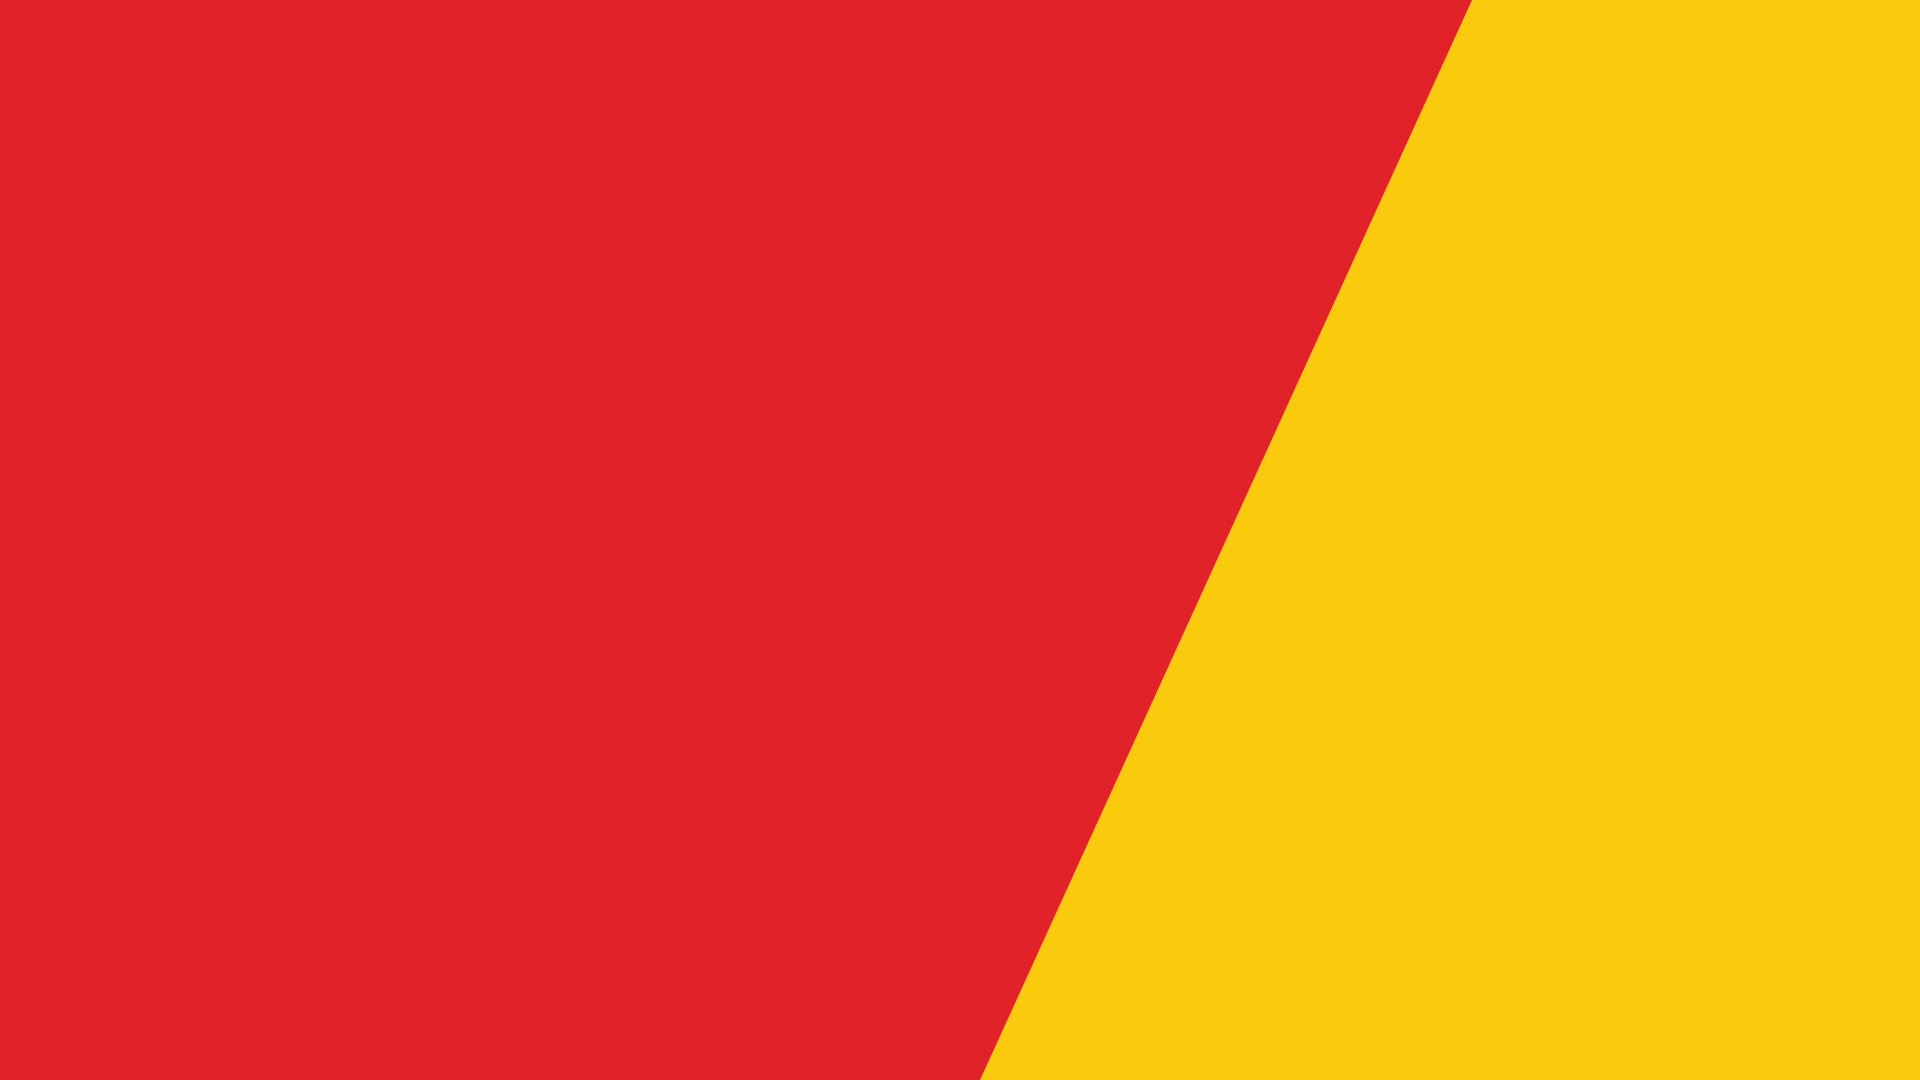
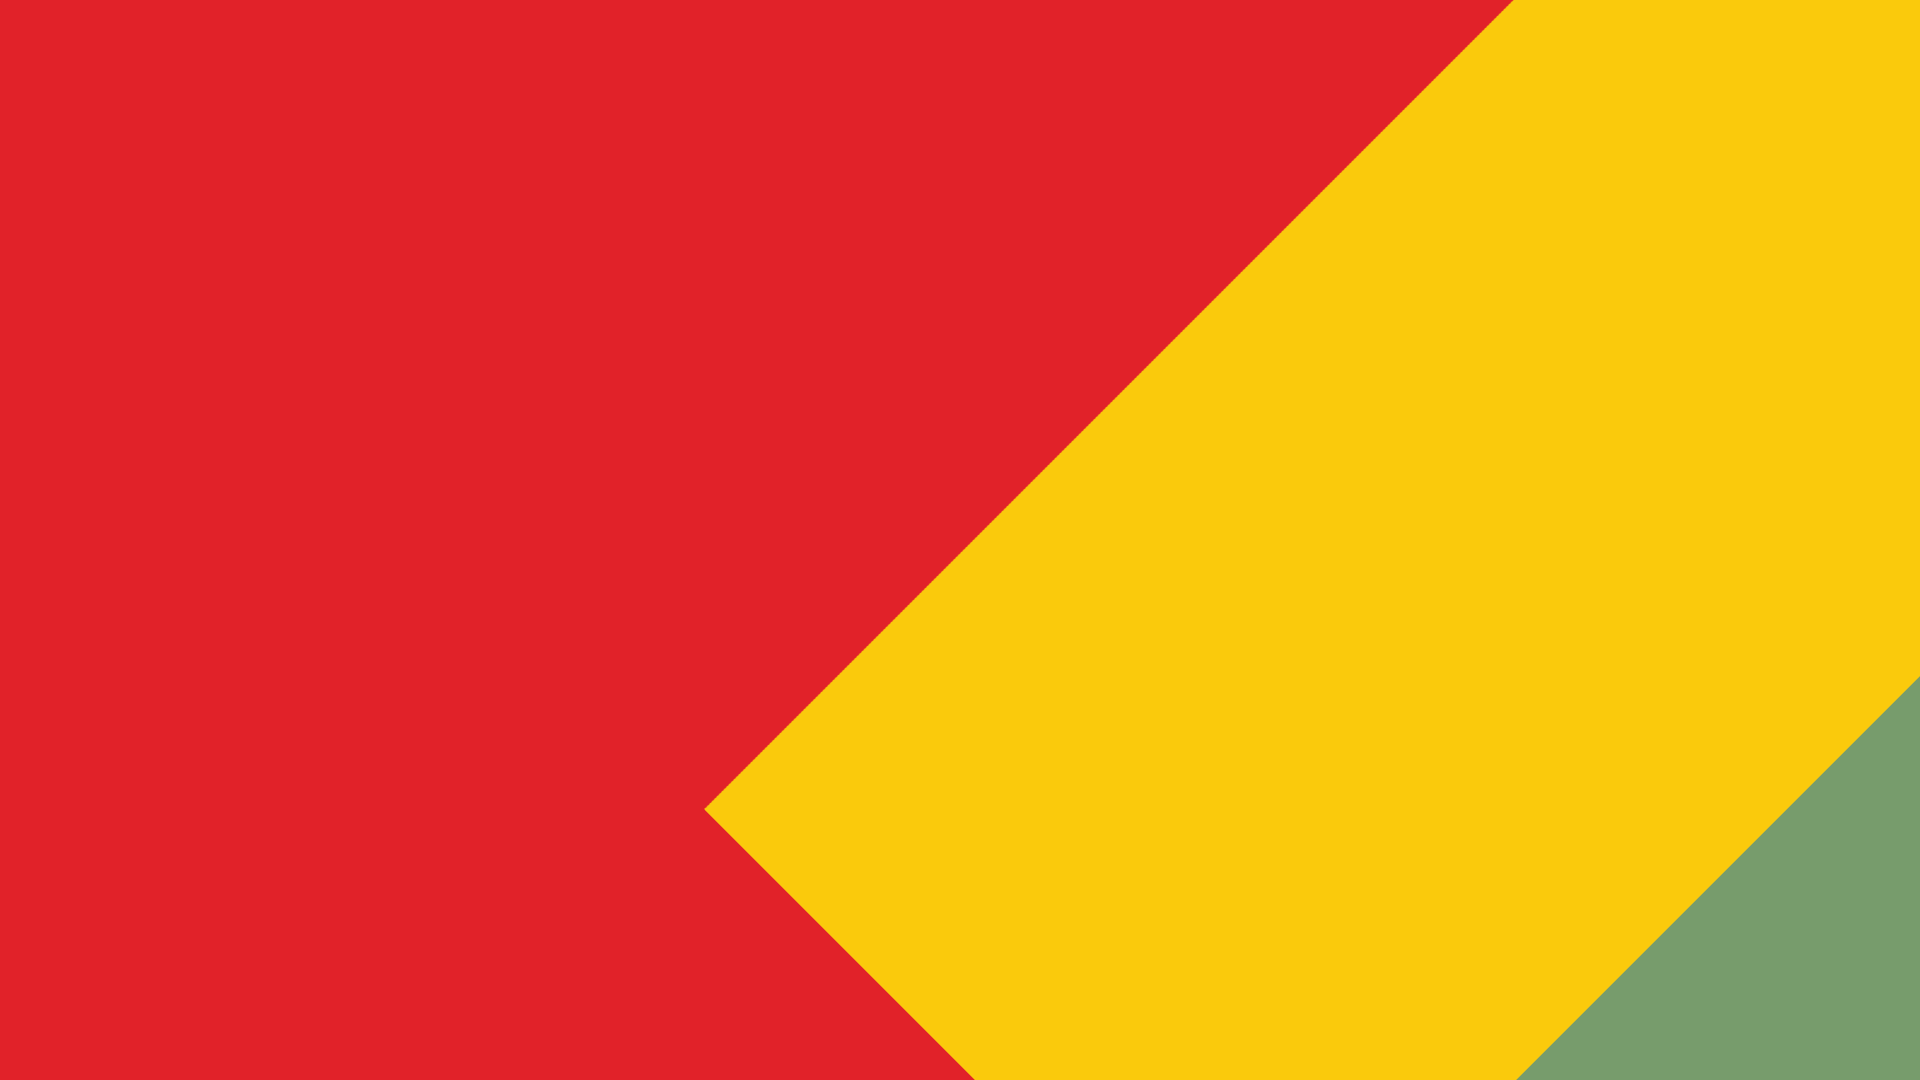
Add files via upload

Changed region(s): [[0.3438, 0.0917, 0.75, 1.0], [0.7812, 0.6417, 1.0, 1.0], [0.75, 0.0, 0.7812, 0.0611]]

diff --git a/css/main.css b/css/main.css
@@ -13,8 +13,6 @@ box-sizing
 
 */
 
-/* body {overflow-y: hidden; overflow-x: hidden;} */
-
 /* 페이지 전체 고정 헤더 */
 #header {position: relative; width: 100vw; z-index: 1;}
 #header .headerWrap {position: fixed; left: 50%; transform: translateX(-50%); width: 1024px;}
@@ -33,7 +31,7 @@ box-sizing
 @keyframes updown {
    from {
      position: fixed;
-     bottom: 20px;
+     bottom: 30px;
      left: 50%;
      transform: translateY(-50%);
    }
@@ -53,23 +51,23 @@ box-sizing
 #fullpage #fullpageWrap {position: relative; left: 50%; transform: translateX(-50%); width: 1024px; height: 100vh;}
 
 /* 각 섹션 설정*/
-#section1 {background: url(../images/mainimg1.png) center no-repeat fixed; background-size: cover;}
+#section1 .backImg {position: absolute; width: 100%; height: 100%; overflow: hidden;}
 #section1 .section1Title > img {position: absolute; left: 0; top: 200px;}
 #section1 .yogiyoApp > a {position: absolute; right: 0; bottom: 125px;}
 
-#section2 {background: url(../images/bg1.png) center no-repeat; background-size: cover;}
+#section2 {background: url(../images/bg1.png) center no-repeat; background-size: 100% 100%;}
 #section2 .section2Title > img {position: absolute; left: 0; top: 200px;}
 #section2 .section2Content {position: absolute; left: 0; top : 460px; text-align: left;}
 #section2 .section2Content > p {margin-bottom: 40px; font-size: 15px; font-weight: 200; color: #fff;}
 #section2 .section2Content2 > img {position: absolute; right: 35px; bottom: 90px; width: 480px; height: 385px;}
 
-#section3 {background: url(../images/bg2.png) center no-repeat; background-size: cover;}
+#section3 {background: url(../images/bg2.png) center no-repeat; background-size: 100% 100%;}
  /* #section3 {background: url(../images/page3img.png) center no-repeat fixed; background-size: cover;} */
 #section3 .section3Title > img {position: absolute; left: 0; top: 200px;}
 #section3 .section3Content {position: absolute; left: 0; top : 460px; text-align: left;}
 #section3 .section3Content > p {font-size: 15px; font-weight: 200; color: #fff;}
 
-#section4 {background: url(../images/bg3.png) center no-repeat; background-size: cover;}
+#section4 {background: url(../images/bg3.png) center no-repeat; background-size: 100% 100%;}
 #section4 .section4Title > img {position: absolute; left: 0; top: 200px;}
 #section4 .section4Content {position: absolute; left: 0; top : 540px; text-align: left;}
 #section4 .section4Content > p {font-size: 15px; font-weight: 200; color: #fff;}

diff --git a/index.html b/index.html
@@ -9,6 +9,7 @@
    <link rel="stylesheet" type="text/css" href="css/default.css" />
    <link rel="stylesheet" type="text/css" href="css/main.css" />
    <link rel="stylesheet" href="https://cdnjs.cloudflare.com/ajax/libs/animate.css/3.7.0/animate.min.css">
+   <link rel="shortcut icon" href="images/favicon.ico">
 </head>
 
 <body>
@@ -37,15 +38,13 @@
          <img src="images/scrolldown.png" alt="스트롤 다운 버튼">
       </div>
 
-      
-      <!-- <div id="topBtn">
-         <a href="#header" class="topBtns"><img src="images/top.png" alt="탑버튼"></a>
-      </div> -->
-   
    </header>
 
    <div id="fullpage">
-      <div class="section animated pulse" id="section1">
+      <div class="section" id="section1">
+         <div class="backImg">
+            <img src="images/mainimg1.png" alt="">
+         </div> 
          <div id="fullpageWrap">
             <div class="section1Title">
                <img src="images/page1title.png" alt="즐거움은 요기부터 배달 음식 주문은 역시 요기요">
@@ -100,10 +99,6 @@
                   기준에 따라 일부 또는 최대 100%까지 보상 받으실 수 있습니다.
                </p>
             </div>
-            
-            <!-- <div class="section4Content2">
-               <img src="images/page4safety2.png" alt="요기요 안심센터 마크, 연락처">
-            </div> -->
 
          </div>
       </div>

diff --git a/js/main.js b/js/main.js
@@ -58,24 +58,22 @@ $(document).ready(function(){
    });
 });
 
-/* 탑버튼 */
-$(document).ready(function(){
-   $(".topBtns").hide();
-   $(window).scroll(function() {
-      var wScroll = $(window).scrollTop();
-      if (wScroll >= (content.eq(4).offset().top)-(wScroll/4)){
-        $('.topBtns').fadeIn(500);
-      } else {
-        $('.topBtns').fadeOut(500);
-      }
-    });
-   $(".topBtns").click(function(e) {
-      e.preventDefault();
-      $('html,body').animate({
-        scrollTop : $(this.hash).offset().top
-      }, 700);
-    });
-});
+/* 배경 이미지 랜덤 */
+
+function backImg() {
+   var rnd = Math.random();
+   if (rnd <= 0.25) {
+      $(".backImg > img").attr("src", "images/mainimg1.png");
+   } else if (rnd > 0.25 && rnd <= 0.5) {
+      $(".backImg > img").attr("src", "images/mainimg2.png");
+   } else if (rnd > 0.5 && rnd <= 0.75) {
+      $(".backImg > img").attr("src", "images/mainimg3.png");
+   } else {
+      $(".backImg > img").attr("src", "images/mainimg4.png");
+   }
+}
+
+backImg();
 
 /* 마우스 휠 이벤트 */
 
